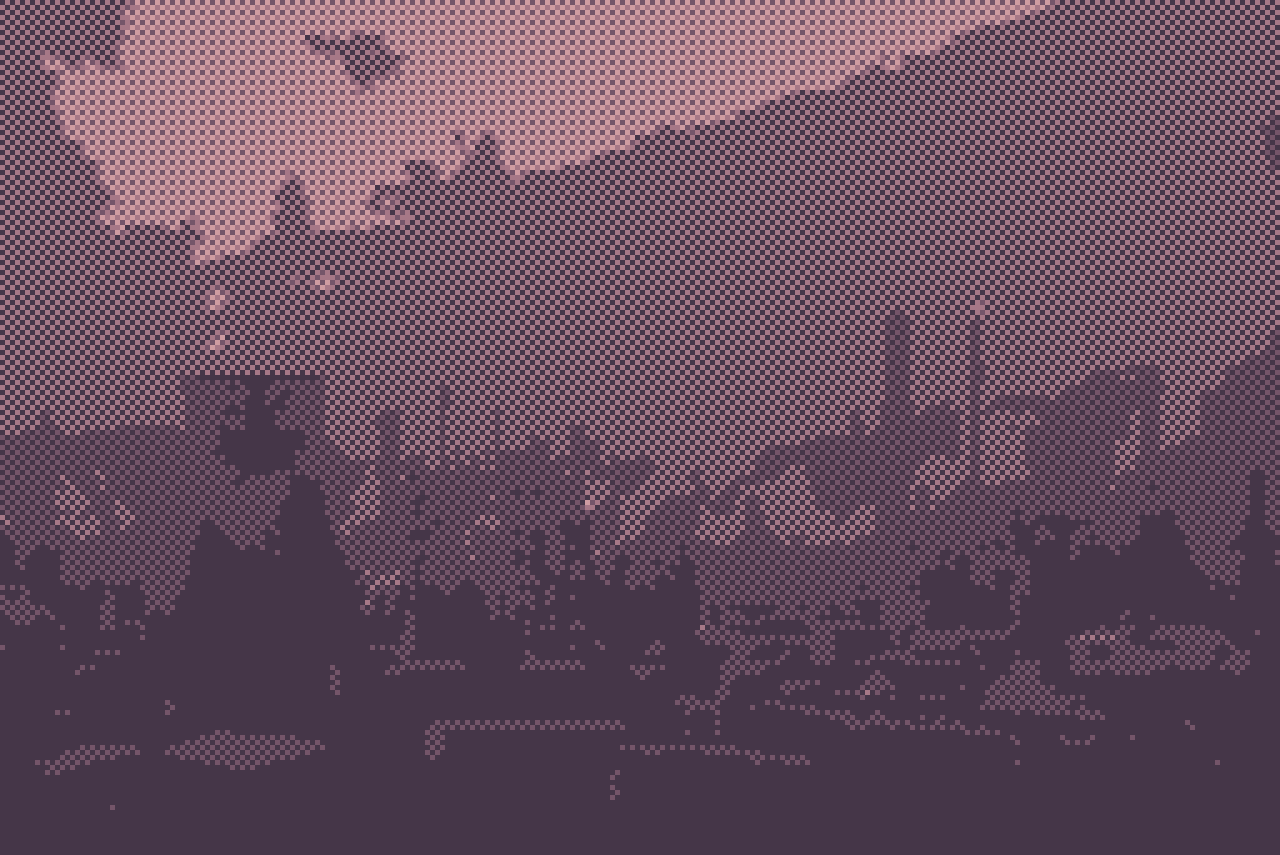
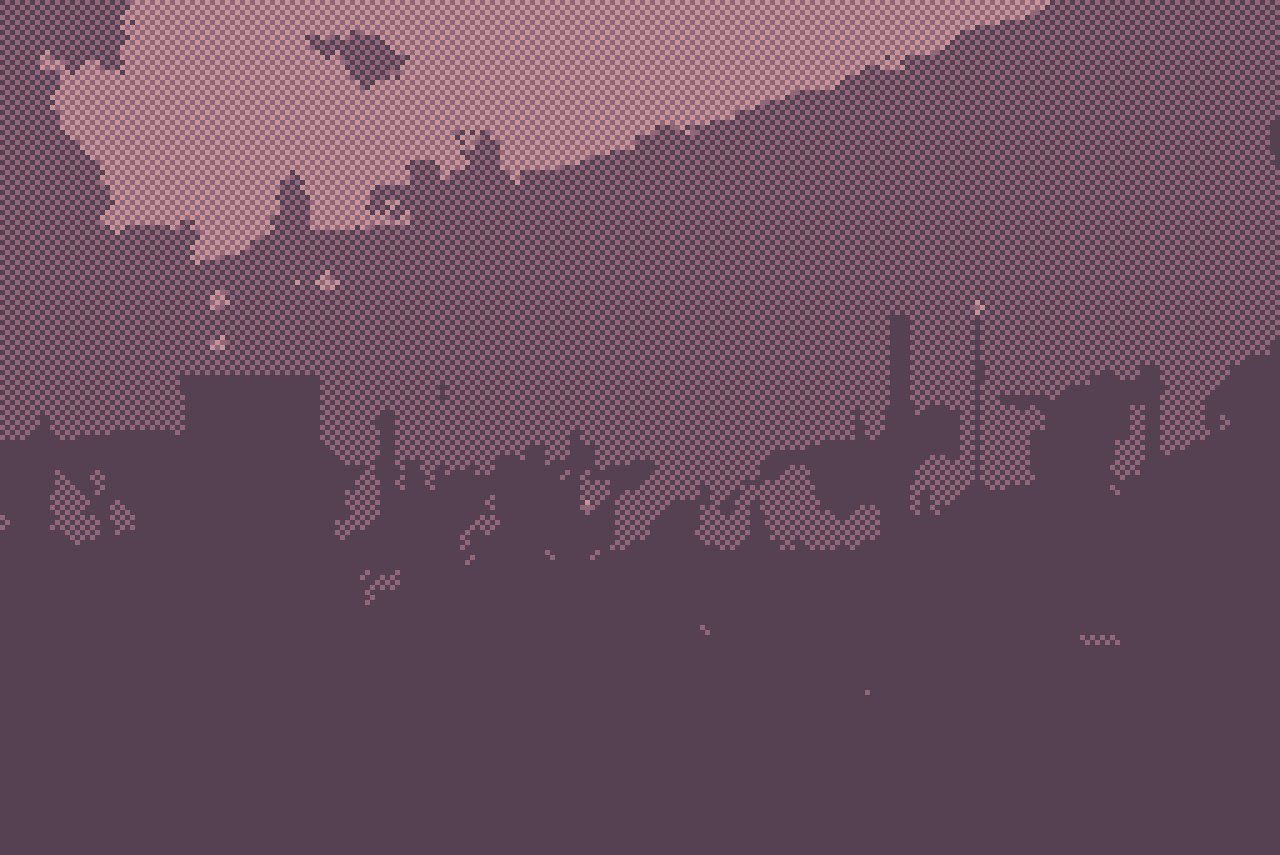
Non working palette dithering

diff --git a/src/picture/PaletteDitheringConvertor.java b/src/picture/PaletteDitheringConvertor.java
@@ -1,0 +1,51 @@
+package picture;
+
+import java.awt.image.BufferedImage;
+
+public class PaletteDitheringConvertor {
+
+	/* VARIABLES */
+	
+	private static BufferedImage _importedPicture;
+	private static BufferedImage _exportedPicture;
+	
+	private static int _pictureWidth, _pictureHeight;
+	
+	private static int[] colorPalette;
+	
+	/* CONSTRUCTORS */
+	
+	private PaletteDitheringConvertor() {
+		//Just for a static class
+	}
+	
+	/* PUBLIC METHODS */
+	
+	public static BufferedImage convert(BufferedImage importedPicture, int exportedWidth, int paletteSize) {
+		_importedPicture = importedPicture;
+		return executeConversion(exportedWidth, paletteSize);
+	}
+	
+	public static BufferedImage convert(String path, int exportedWidth, int paletteSize) {
+		_importedPicture = PictureImporter.importPicture(path);
+		return executeConversion(exportedWidth, paletteSize);
+	}
+	
+	/* PRIVATE METHODS */
+	
+	private static BufferedImage executeConversion(int exportedWidth, int paletteSize) {
+		
+		
+		return _exportedPicture;
+	}
+	
+	private static void prepareVariables(int exportedWidth, int paletteSize) {
+		colorPalette = new int[Math.clamp(paletteSize, 3, 254)];
+		
+		_importedPicture = PixelArtConvertor.convertPicture(_importedPicture, exportedWidth);
+        _pictureHeight = _importedPicture.getHeight();
+        _pictureWidth = _importedPicture.getWidth();
+
+        _exportedPicture = new BufferedImage(_pictureWidth, _pictureHeight, BufferedImage.TYPE_INT_ARGB);
+	}
+}

diff --git a/src/picture/coloredDitherings/TypeTwoColoredDithering.java b/src/picture/coloredDitherings/TypeTwoColoredDithering.java
@@ -42,7 +42,12 @@ public class TypeTwoColoredDithering extends ColoredDithering {
 			}
 		}
 
-		return ((255 << 24) | (color[1] / counter << 16) | (color[2] / counter << 8) | color[3] / counter);
+		if(counter > 0) {
+        	return ((255 << 24) | (color[1] / counter << 16) | (color[2] / counter << 8) | color[3] / counter);
+        }
+        else {
+        	return ((255 << 24) | (0 << 16) | (0 << 8) | 0);
+        }
 	}
 
 	protected void createPalette() {
